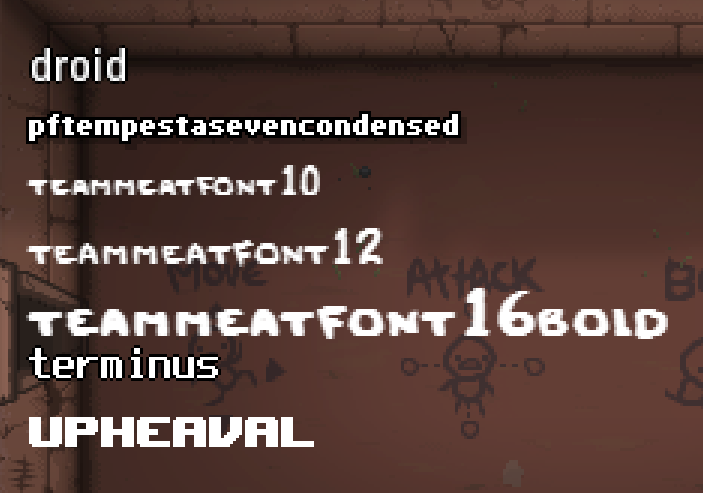
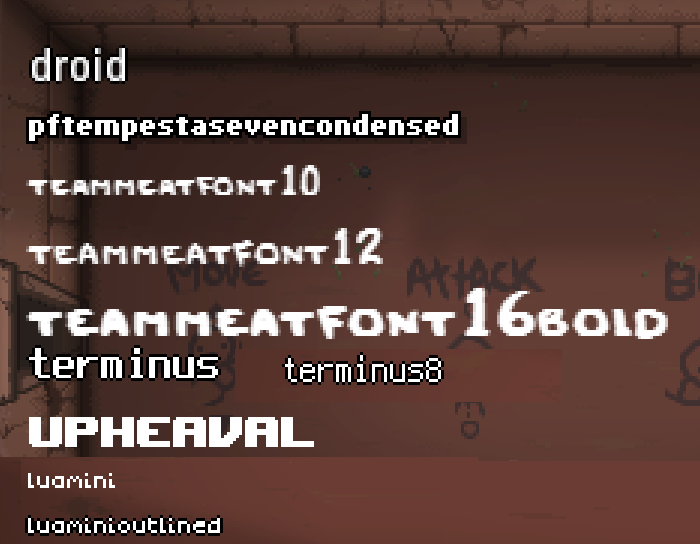
Added font infos to luamini and upheavalmini

diff --git a/docs/tutorials/Tutorial-Rendertext.md b/docs/tutorials/Tutorial-Rendertext.md
@@ -14,7 +14,8 @@ The Following fonts are used by the game and can be used with the [`Font()`](../
 |PF Tempesta Seven (Condensed)|pftempestasevencondensed|[Example PF Tempesta Seven](../images/tutorial_special_chars/example_pftempestasevencondensed.png)|HUD Elements like coin/key counters|[PF Tempesta Seven](https://www.dafont.com/pf-tempesta-seven.font)|
 |Team Meat Font|teammeatfont10<br/>teammeatfont12<br/>teammeatfont16<br/>teammeatfont16bold|[Example teammeatfont10](../images/tutorial_special_chars/example_teammeat10.png)<br/>[Example teammeatfont12](../images/tutorial_special_chars/example_teammeat12.png)<br/>[Example teammeatfont16](../images/tutorial_special_chars/example_teammeat16.png)<br/>[Example teammeatfont16bold](../images/tutorial_special_chars/example_teammeat16bold.png)|Main Menu Elements<br/>Pop-Ups<br/>Timer / Score Elements|[Team Meat Font without Bold](../customData/team-meat-font_1.2.zip)|
 |Terminus|terminus<br/>terminus8|[Example Terminus](../images/tutorial_special_chars/example_terminus.png)<br/>[Example Terminus8](../images/tutorial_special_chars/example_terminus8.png)|Debug Console / Isaac.RenderText()|[Terminus](http://terminus-font.sourceforge.net/)|
-|Upheaval|upheaval|[Example Upheaval](../images/tutorial_special_chars/example_upheaval.png)|Streak text|[Upheaval](https://www.dafont.com/upheaval.font)|
+|Luamini<br/>(Repentance)|luamini<br/>luaminioutlined|[Example luamini](../images/tutorial_special_chars/example_luamini.png)<br/>[Example luaminioutlined](../images/tutorial_special_chars/example_luaminioutlined.png)|Stats HUD| |
+|Upheaval|upheaval<br/>upheavalmini (Repentance)|[Example Upheaval](../images/tutorial_special_chars/example_upheaval.png)<br/>[Example Upheavalmini](../images/tutorial_special_chars/example_upheavalmini.png)|Streak text|[Upheaval](https://www.dafont.com/upheaval.font)|
 |mplus (Japanese)|mplus_10r<br/>mplus_12b|[Example mplus_10r](../images/tutorial_special_chars/example_mplus10r.png)<br/>[Example mplus_12b](../images/tutorial_special_chars/example_mplus12b.png)|Replacement for all fonts aboth for Japanese translation.<br/>10r is pf "Tempesta seven" / "Team Meat" replacement<br/>12b is "Upheaval" replacement|[PixelMplus](http://itouhiro.hatenablog.com/entry/20130602/font)
 [(M+ Fonts)](https://mplus-fonts.osdn.jp/)|
 |kr Font (Korean)|kr_font12<br/>kr_font14|[Example kr_font12](../images/tutorial_special_chars/example_krfont12.png)<br/>[Example kr_font14](../images/tutorial_special_chars/example_krfont14.png)|TBD|No source found right now|
@@ -53,8 +54,14 @@ local f = Font() -- init font object
 f:Load("font/droid.fnt") -- load a font into the font object
 f:DrawString("droid",60,50,KColor(1,1,1,1,0,0,0),0,true) -- render string with loaded font on position 60x50y
 ```
+dlc3-language specific fonts:
+```lua
+local f = Font() -- init font object
+f:Load("resources-dlc3.jp/font/mplus_10r.fnt") -- load a font from the Japanese data package
+f:DrawString("mplus_10r",60,50,KColor(1,1,1,1,0,0,0),0,true) -- render string with loaded font on position 60x50y
+```
 
-### All possible Fonts that can be drawn:
+### Quick overview of common Fonts that can be drawn:
 
 ![](../images/font-types.png)
 
